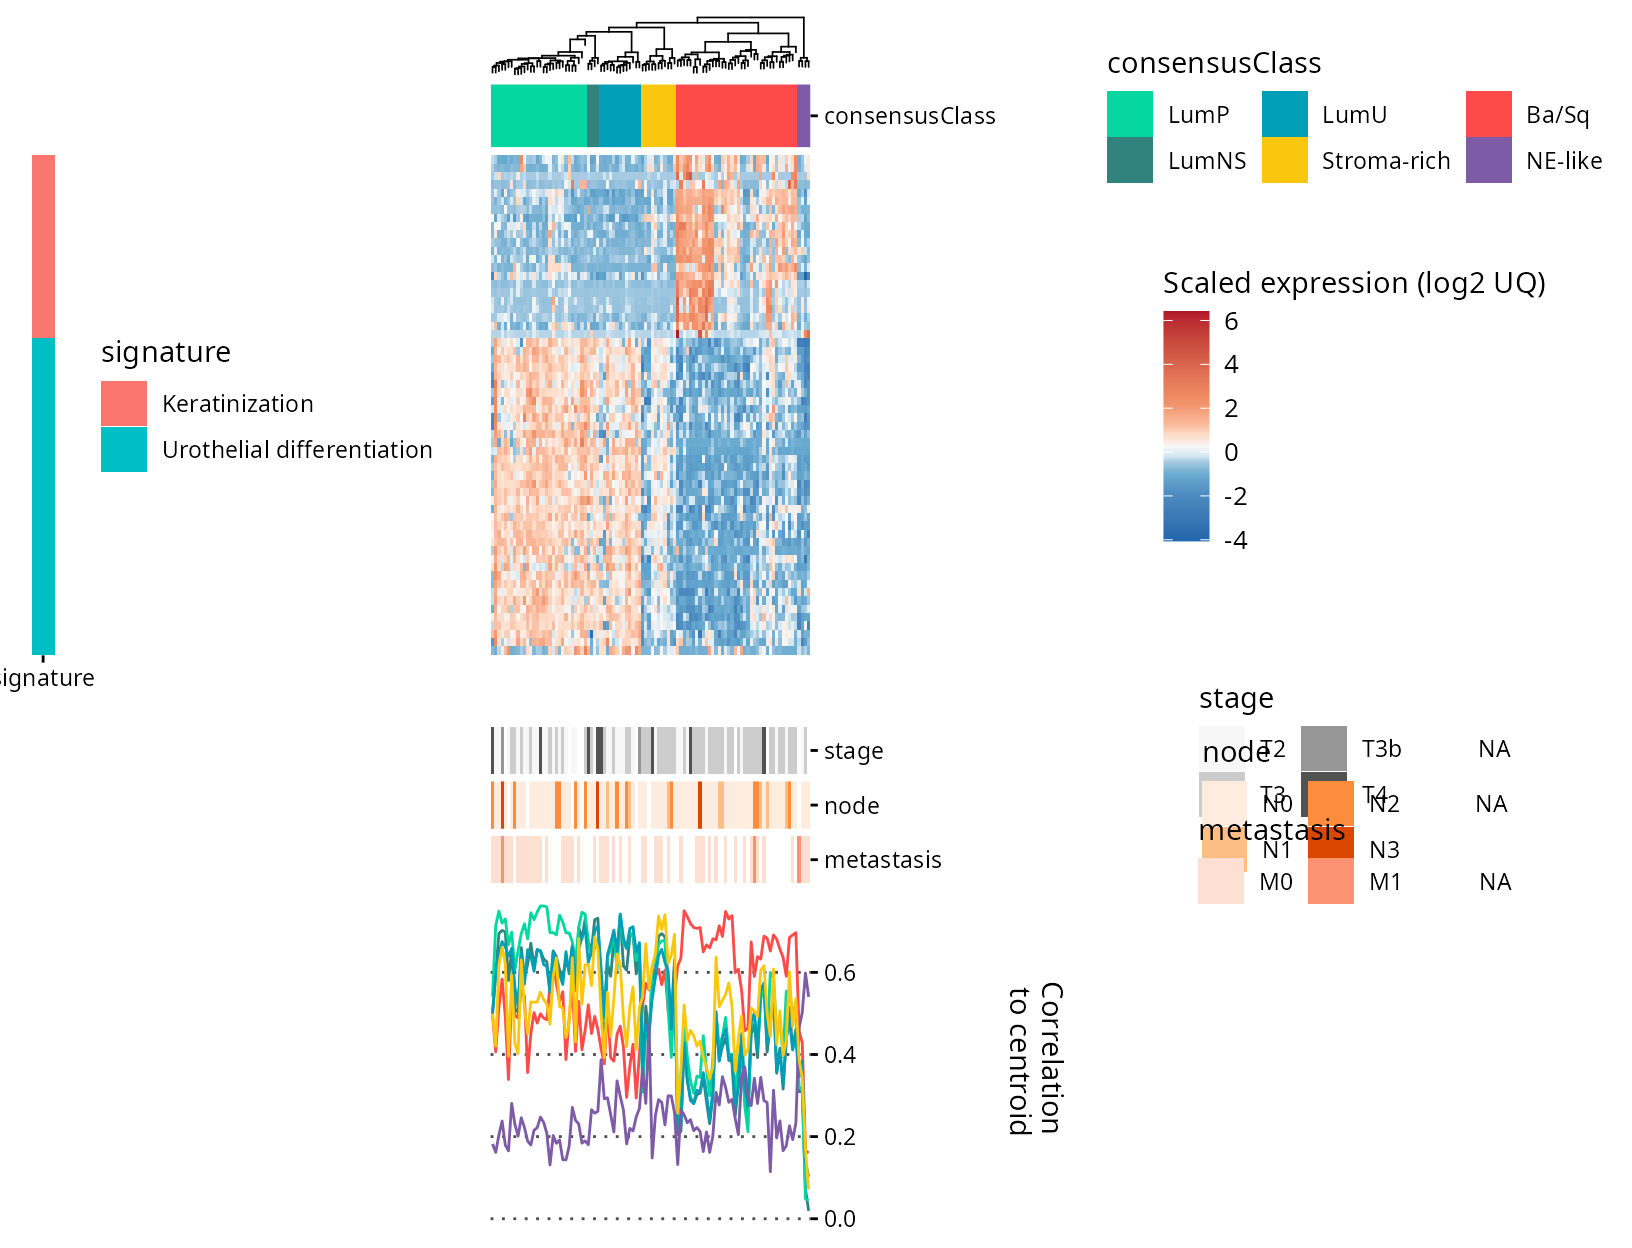
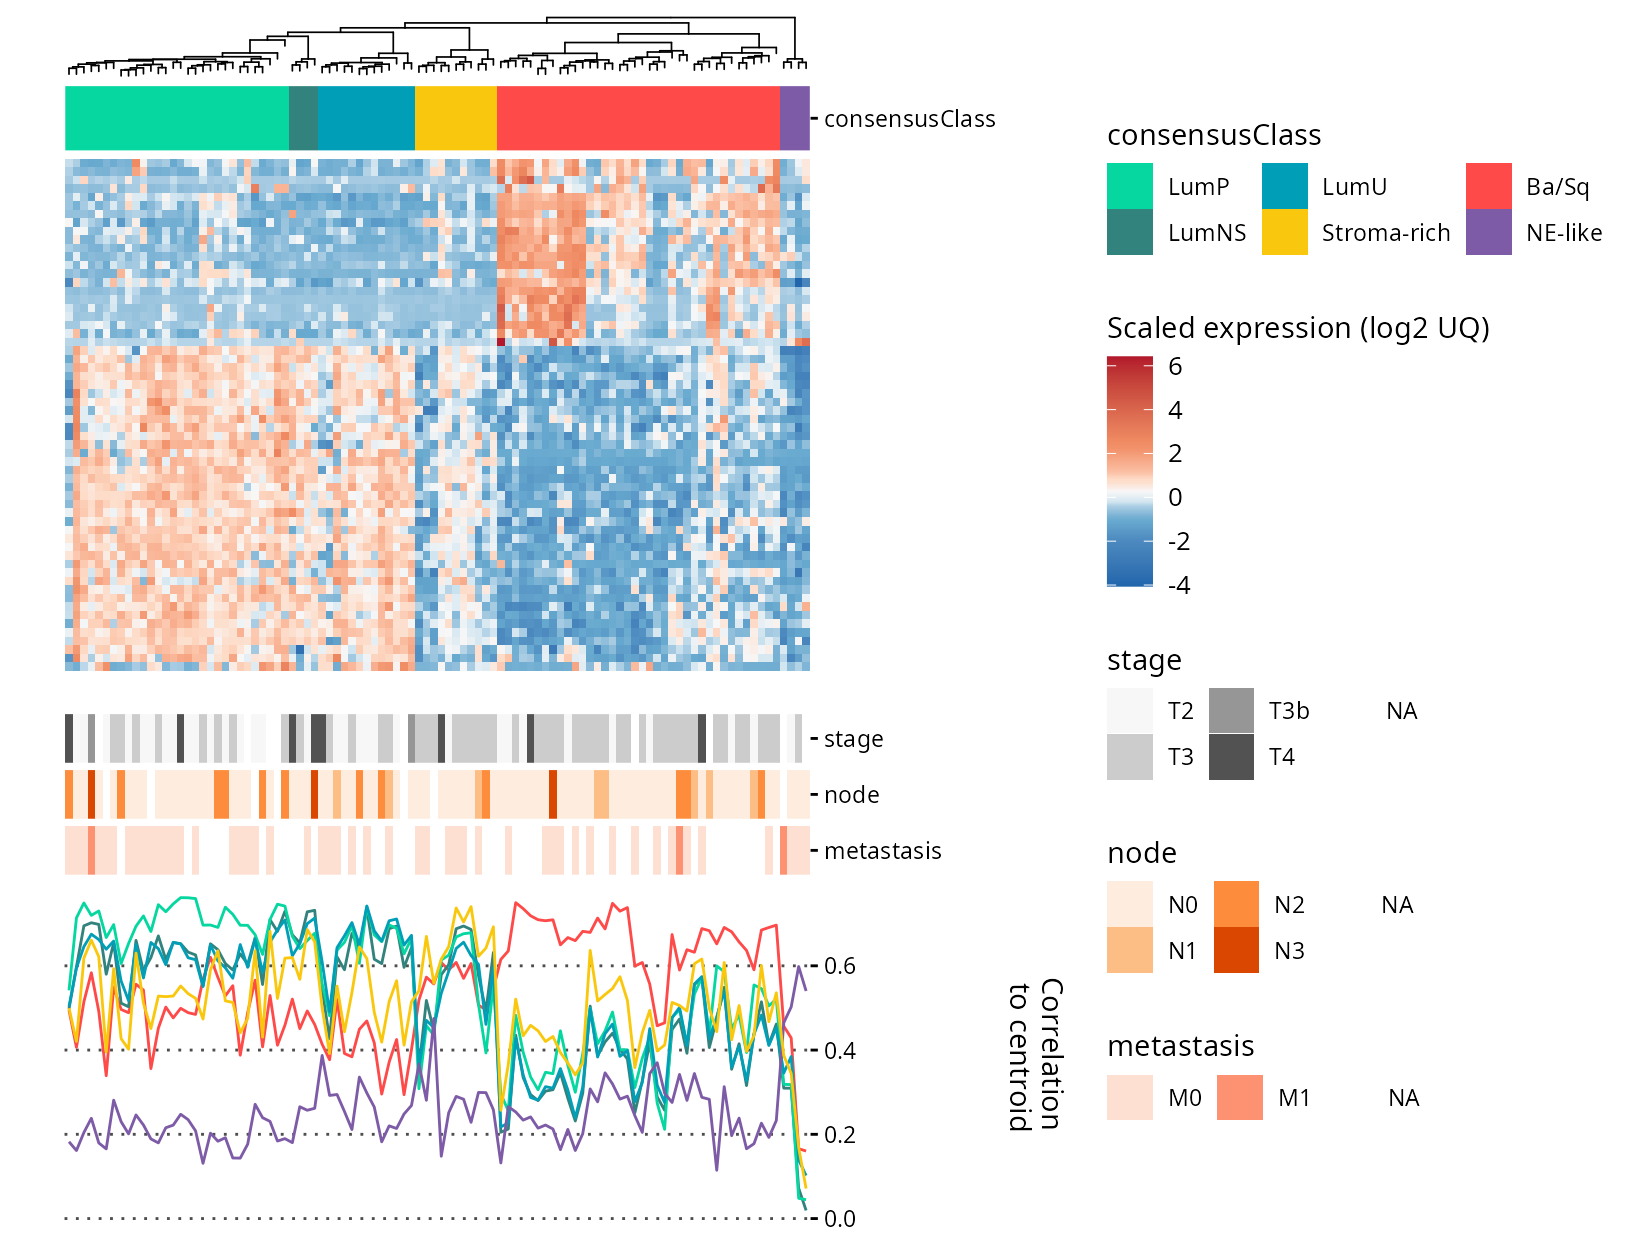
bug fixed

diff --git a/docs/articles/ggheatmapper.html b/docs/articles/ggheatmapper.html
@@ -859,10 +859,12 @@ tracks:</p>
 <span>           track_columns <span class="op">=</span> <span class="fu"><a href="https://rdrr.io/r/base/c.html" class="external-link">c</a></span><span class="op">(</span><span class="st">"stage"</span>, <span class="st">"node"</span>, <span class="st">"metastasis"</span><span class="op">)</span>,</span>
 <span>           track_colors <span class="op">=</span> <span class="fu"><a href="https://rdrr.io/r/base/list.html" class="external-link">list</a></span><span class="op">(</span>stage <span class="op">=</span> <span class="st">'Greys'</span>, node <span class="op">=</span> <span class="st">'Oranges'</span>, metastasis <span class="op">=</span> <span class="st">'Reds'</span><span class="op">)</span>,</span>
 <span>           track_prop <span class="op">=</span> <span class="fl">0.2</span><span class="op">)</span></span>
-<span><span class="co">#&gt; Adding missing grouping variables: `consensusClass`</span></span>
-<span><span class="va">gr_gghm</span> <span class="op">+</span></span>
-<span>  <span class="fu"><a href="https://patchwork.data-imaginist.com/reference/plot_layout.html" class="external-link">plot_layout</a></span><span class="op">(</span>guides <span class="op">=</span> <span class="st">'collect'</span><span class="op">)</span></span></code></pre></div>
+<span><span class="co">#&gt; Adding missing grouping variables: `consensusClass`</span></span></code></pre></div>
 <p><img src="ggheatmapper_files/figure-html/unnamed-chunk-7-1.png" width="768"></p>
+<div class="sourceCode" id="cb7"><pre class="downlit sourceCode r">
+<code class="sourceCode R"><span><span class="va">gr_gghm</span> <span class="op">+</span></span>
+<span>  <span class="fu"><a href="https://patchwork.data-imaginist.com/reference/plot_layout.html" class="external-link">plot_layout</a></span><span class="op">(</span>guides <span class="op">=</span> <span class="st">'collect'</span><span class="op">)</span></span></code></pre></div>
+<p><img src="ggheatmapper_files/figure-html/unnamed-chunk-7-2.png" width="768"></p>
 </div>
 <div class="section level3">
 <h3 id="aligning-new-plots">Aligning new plots<a class="anchor" aria-label="anchor" href="#aligning-new-plots"></a>
@@ -877,7 +879,7 @@ the centroid of the 6 consensus bladder cancer subtypes. Note the use of
 with <code>ggheatmap</code>s, and that we switch the y-axis to the right
 side to make the end-product look better (though everything will work
 without this):</p>
-<div class="sourceCode" id="cb7"><pre class="downlit sourceCode r">
+<div class="sourceCode" id="cb8"><pre class="downlit sourceCode r">
 <code class="sourceCode R"><span><span class="va">tcgaBLCA_tb2</span> <span class="op">&lt;-</span> <span class="fu"><a href="../reference/get_data.html">get_data</a></span><span class="op">(</span><span class="va">gr_gghm</span><span class="op">)</span></span>
 <span><span class="va">plt_corlines</span> <span class="op">&lt;-</span> <span class="va">tcgaBLCA_tb2</span> <span class="op"><a href="https://magrittr.tidyverse.org/reference/pipe.html" class="external-link">%&gt;%</a></span></span>
 <span>  <span class="fu"><a href="https://dplyr.tidyverse.org/reference/group_by.html" class="external-link">ungroup</a></span><span class="op">(</span><span class="op">)</span> <span class="op"><a href="https://magrittr.tidyverse.org/reference/pipe.html" class="external-link">%&gt;%</a></span></span>
@@ -903,7 +905,7 @@ without this):</p>
 order our rows, but we can get this from <code>get_rowLevels</code>.
 Here, we plot which signature each gene in our example data belongs
 to:</p>
-<div class="sourceCode" id="cb8"><pre class="downlit sourceCode r">
+<div class="sourceCode" id="cb9"><pre class="downlit sourceCode r">
 <code class="sourceCode R"><span><span class="va">plt_row_annot</span> <span class="op">&lt;-</span> <span class="va">tcgaBLCA_ex</span><span class="op">$</span><span class="va">gene_annot</span> <span class="op"><a href="https://magrittr.tidyverse.org/reference/pipe.html" class="external-link">%&gt;%</a></span></span>
 <span>  <span class="fu"><a href="https://dplyr.tidyverse.org/reference/mutate.html" class="external-link">mutate</a></span><span class="op">(</span>gene_symbol <span class="op">=</span> <span class="fu"><a href="https://rdrr.io/r/base/factor.html" class="external-link">factor</a></span><span class="op">(</span><span class="va">gene_symbol</span>, levels <span class="op">=</span> <span class="fu"><a href="../reference/get_data.html">get_rowLevels</a></span><span class="op">(</span><span class="va">gr_gghm</span><span class="op">)</span><span class="op">)</span>,</span>
 <span>         group <span class="op">=</span> <span class="st">'signature'</span><span class="op">)</span> <span class="op"><a href="https://magrittr.tidyverse.org/reference/pipe.html" class="external-link">%&gt;%</a></span></span>
@@ -918,16 +920,18 @@ to:</p>
 the original hm with all panels properly aligned. Note the use of
 <code>legend_action = 'collect'</code> in the final call, that will
 unite all the legends in a nice way:</p>
-<div class="sourceCode" id="cb9"><pre class="downlit sourceCode r">
+<div class="sourceCode" id="cb10"><pre class="downlit sourceCode r">
 <code class="sourceCode R"><span><span class="va">gghm_complete</span> <span class="op">&lt;-</span> <span class="va">gr_gghm</span> <span class="op"><a href="https://magrittr.tidyverse.org/reference/pipe.html" class="external-link">%&gt;%</a></span></span>
 <span>  <span class="fu"><a href="../reference/align_to_hm.html">align_to_hm</a></span><span class="op">(</span><span class="va">plt_corlines</span>, newplt_size_prop <span class="op">=</span> <span class="fl">0.3</span><span class="op">)</span> <span class="op"><a href="https://magrittr.tidyverse.org/reference/pipe.html" class="external-link">%&gt;%</a></span></span>
 <span>  <span class="fu"><a href="../reference/align_to_hm.html">align_to_hm</a></span><span class="op">(</span><span class="va">plt_row_annot</span>, pos <span class="op">=</span> <span class="st">"left"</span>, newplt_size_prop <span class="op">=</span> <span class="fl">0.08</span>, </span>
-<span>              legend_action <span class="op">=</span> <span class="st">"collect"</span>, tag_level <span class="op">=</span> <span class="st">'keep'</span><span class="op">)</span></span>
-<span><span class="va">gghm_complete</span></span></code></pre></div>
-<p><img src="ggheatmapper_files/figure-html/unnamed-chunk-10-1.png" width="816"></p>
+<span>              legend_action <span class="op">=</span> <span class="st">"collect"</span>, tag_level <span class="op">=</span> <span class="st">'keep'</span><span class="op">)</span></span></code></pre></div>
+<p><img src="ggheatmapper_files/figure-html/unnamed-chunk-10-1.png" width="816"><img src="ggheatmapper_files/figure-html/unnamed-chunk-10-2.png" width="816"></p>
+<div class="sourceCode" id="cb11"><pre class="downlit sourceCode r">
+<code class="sourceCode R"><span><span class="va">gghm_complete</span></span></code></pre></div>
+<p><img src="ggheatmapper_files/figure-html/unnamed-chunk-10-3.png" width="816"></p>
 <p>Note that you can still use the <code>patchwork</code>
 <code>&amp;</code> to make global changes to all plots:</p>
-<div class="sourceCode" id="cb10"><pre class="downlit sourceCode r">
+<div class="sourceCode" id="cb12"><pre class="downlit sourceCode r">
 <code class="sourceCode R"><span><span class="va">gghm_complete</span> <span class="op">&lt;-</span> <span class="va">gghm_complete</span> <span class="op">&amp;</span></span>
 <span>  <span class="fu"><a href="https://ggplot2.tidyverse.org/reference/theme.html" class="external-link">theme</a></span><span class="op">(</span>legend.text <span class="op">=</span> <span class="fu"><a href="https://ggplot2.tidyverse.org/reference/element.html" class="external-link">element_text</a></span><span class="op">(</span>size <span class="op">=</span> <span class="fl">7</span><span class="op">)</span>,</span>
 <span>        legend.title <span class="op">=</span> <span class="fu"><a href="https://ggplot2.tidyverse.org/reference/element.html" class="external-link">element_text</a></span><span class="op">(</span>size <span class="op">=</span> <span class="fl">8</span><span class="op">)</span><span class="op">)</span></span>
@@ -941,7 +945,7 @@ unite all the legends in a nice way:</p>
 <p>You can now make panels with your complete heatmap with
 <code>patchwork</code>, <code>cowplot</code> or other aligning packages.
 For example:</p>
-<div class="sourceCode" id="cb11"><pre class="downlit sourceCode r">
+<div class="sourceCode" id="cb13"><pre class="downlit sourceCode r">
 <code class="sourceCode R"><span><span class="va">plt_subtype_count</span> <span class="op">&lt;-</span> <span class="fu"><a href="https://ggplot2.tidyverse.org/reference/ggplot.html" class="external-link">ggplot</a></span><span class="op">(</span><span class="va">sample_annot</span>, <span class="fu"><a href="https://ggplot2.tidyverse.org/reference/aes.html" class="external-link">aes</a></span><span class="op">(</span><span class="va">consensusClass</span>, fill <span class="op">=</span> <span class="va">consensusClass</span><span class="op">)</span><span class="op">)</span> <span class="op">+</span></span>
 <span>  <span class="fu"><a href="https://ggplot2.tidyverse.org/reference/geom_bar.html" class="external-link">geom_bar</a></span><span class="op">(</span><span class="op">)</span> <span class="op">+</span></span>
 <span>  <span class="fu"><a href="https://ggplot2.tidyverse.org/reference/scale_manual.html" class="external-link">scale_fill_manual</a></span><span class="op">(</span>values <span class="op">=</span> <span class="fu"><a href="https://rdrr.io/r/base/c.html" class="external-link">c</a></span><span class="op">(</span>`Ba/Sq` <span class="op">=</span> <span class="st">"#fe4a49"</span>, LumNS <span class="op">=</span> <span class="st">"#32837d"</span>, </span>
@@ -959,7 +963,7 @@ For example:</p>
 <p>Then, we can just use standard <code>patchwork</code> to align the
 <code>ggheatmap</code> and our new plots (as they won’t be aligned with
 the heatmap part of the plot, but with the entire plot):</p>
-<div class="sourceCode" id="cb12"><pre class="downlit sourceCode r">
+<div class="sourceCode" id="cb14"><pre class="downlit sourceCode r">
 <code class="sourceCode R"><span><span class="kw"><a href="https://rdrr.io/r/base/library.html" class="external-link">library</a></span><span class="op">(</span><span class="va"><a href="https://patchwork.data-imaginist.com" class="external-link">patchwork</a></span><span class="op">)</span></span>
 <span><span class="va">new_col</span> <span class="op">&lt;-</span> <span class="op">(</span><span class="va">plt_subtype_count</span> <span class="op">+</span> <span class="fu"><a href="https://patchwork.data-imaginist.com/reference/plot_spacer.html" class="external-link">plot_spacer</a></span><span class="op">(</span><span class="op">)</span><span class="op">)</span> <span class="op">+</span></span>
 <span>  <span class="fu"><a href="https://patchwork.data-imaginist.com/reference/plot_layout.html" class="external-link">plot_layout</a></span><span class="op">(</span>heights <span class="op">=</span> <span class="fu"><a href="https://rdrr.io/r/base/c.html" class="external-link">c</a></span><span class="op">(</span><span class="fl">0.3</span>,<span class="fl">0.7</span><span class="op">)</span><span class="op">)</span></span>
@@ -975,7 +979,7 @@ the heatmap part of the plot, but with the entire plot):</p>
 <code>rowv</code> parameter. ggheatmapper will render parts of the
 heatmap in different facets if the <code>rowv</code> argument for the
 <code>ggheatmap</code> call is a named list:</p>
-<div class="sourceCode" id="cb13"><pre class="downlit sourceCode r">
+<div class="sourceCode" id="cb15"><pre class="downlit sourceCode r">
 <code class="sourceCode R"><span><span class="va">sig_list</span> <span class="op">&lt;-</span> <span class="fu"><a href="https://rdrr.io/r/base/split.html" class="external-link">split</a></span><span class="op">(</span><span class="va">tcgaBLCA_ex</span><span class="op">$</span><span class="va">gene_annot</span><span class="op">$</span><span class="va">gene_symbol</span>, <span class="va">tcgaBLCA_ex</span><span class="op">$</span><span class="va">gene_annot</span><span class="op">$</span><span class="va">signature</span><span class="op">)</span></span>
 <span></span>
 <span><span class="va">gr_gghm</span> <span class="op">&lt;-</span> <span class="fu"><a href="../reference/ggheatmap.html">ggheatmap</a></span><span class="op">(</span><span class="va">tcgaBLCA_tb</span>,</span>

diff --git a/docs/reference/align_to_hm.html b/docs/reference/align_to_hm.html
@@ -56,7 +56,7 @@ and also exported by ggheatmap.</p>
 <span>  <span class="va">gplot</span>,</span>
 <span>  pos <span class="op">=</span> <span class="st">"bottom"</span>,</span>
 <span>  newplt_size_prop <span class="op">=</span> <span class="fl">0.5</span>,</span>
-<span>  legend_action <span class="op">=</span> <span class="cn">NULL</span>,</span>
+<span>  legend_action <span class="op">=</span> <span class="st">"collect"</span>,</span>
 <span>  tag_level <span class="op">=</span> <span class="st">"new"</span></span>
 <span><span class="op">)</span></span></code></pre></div>
     </div>
